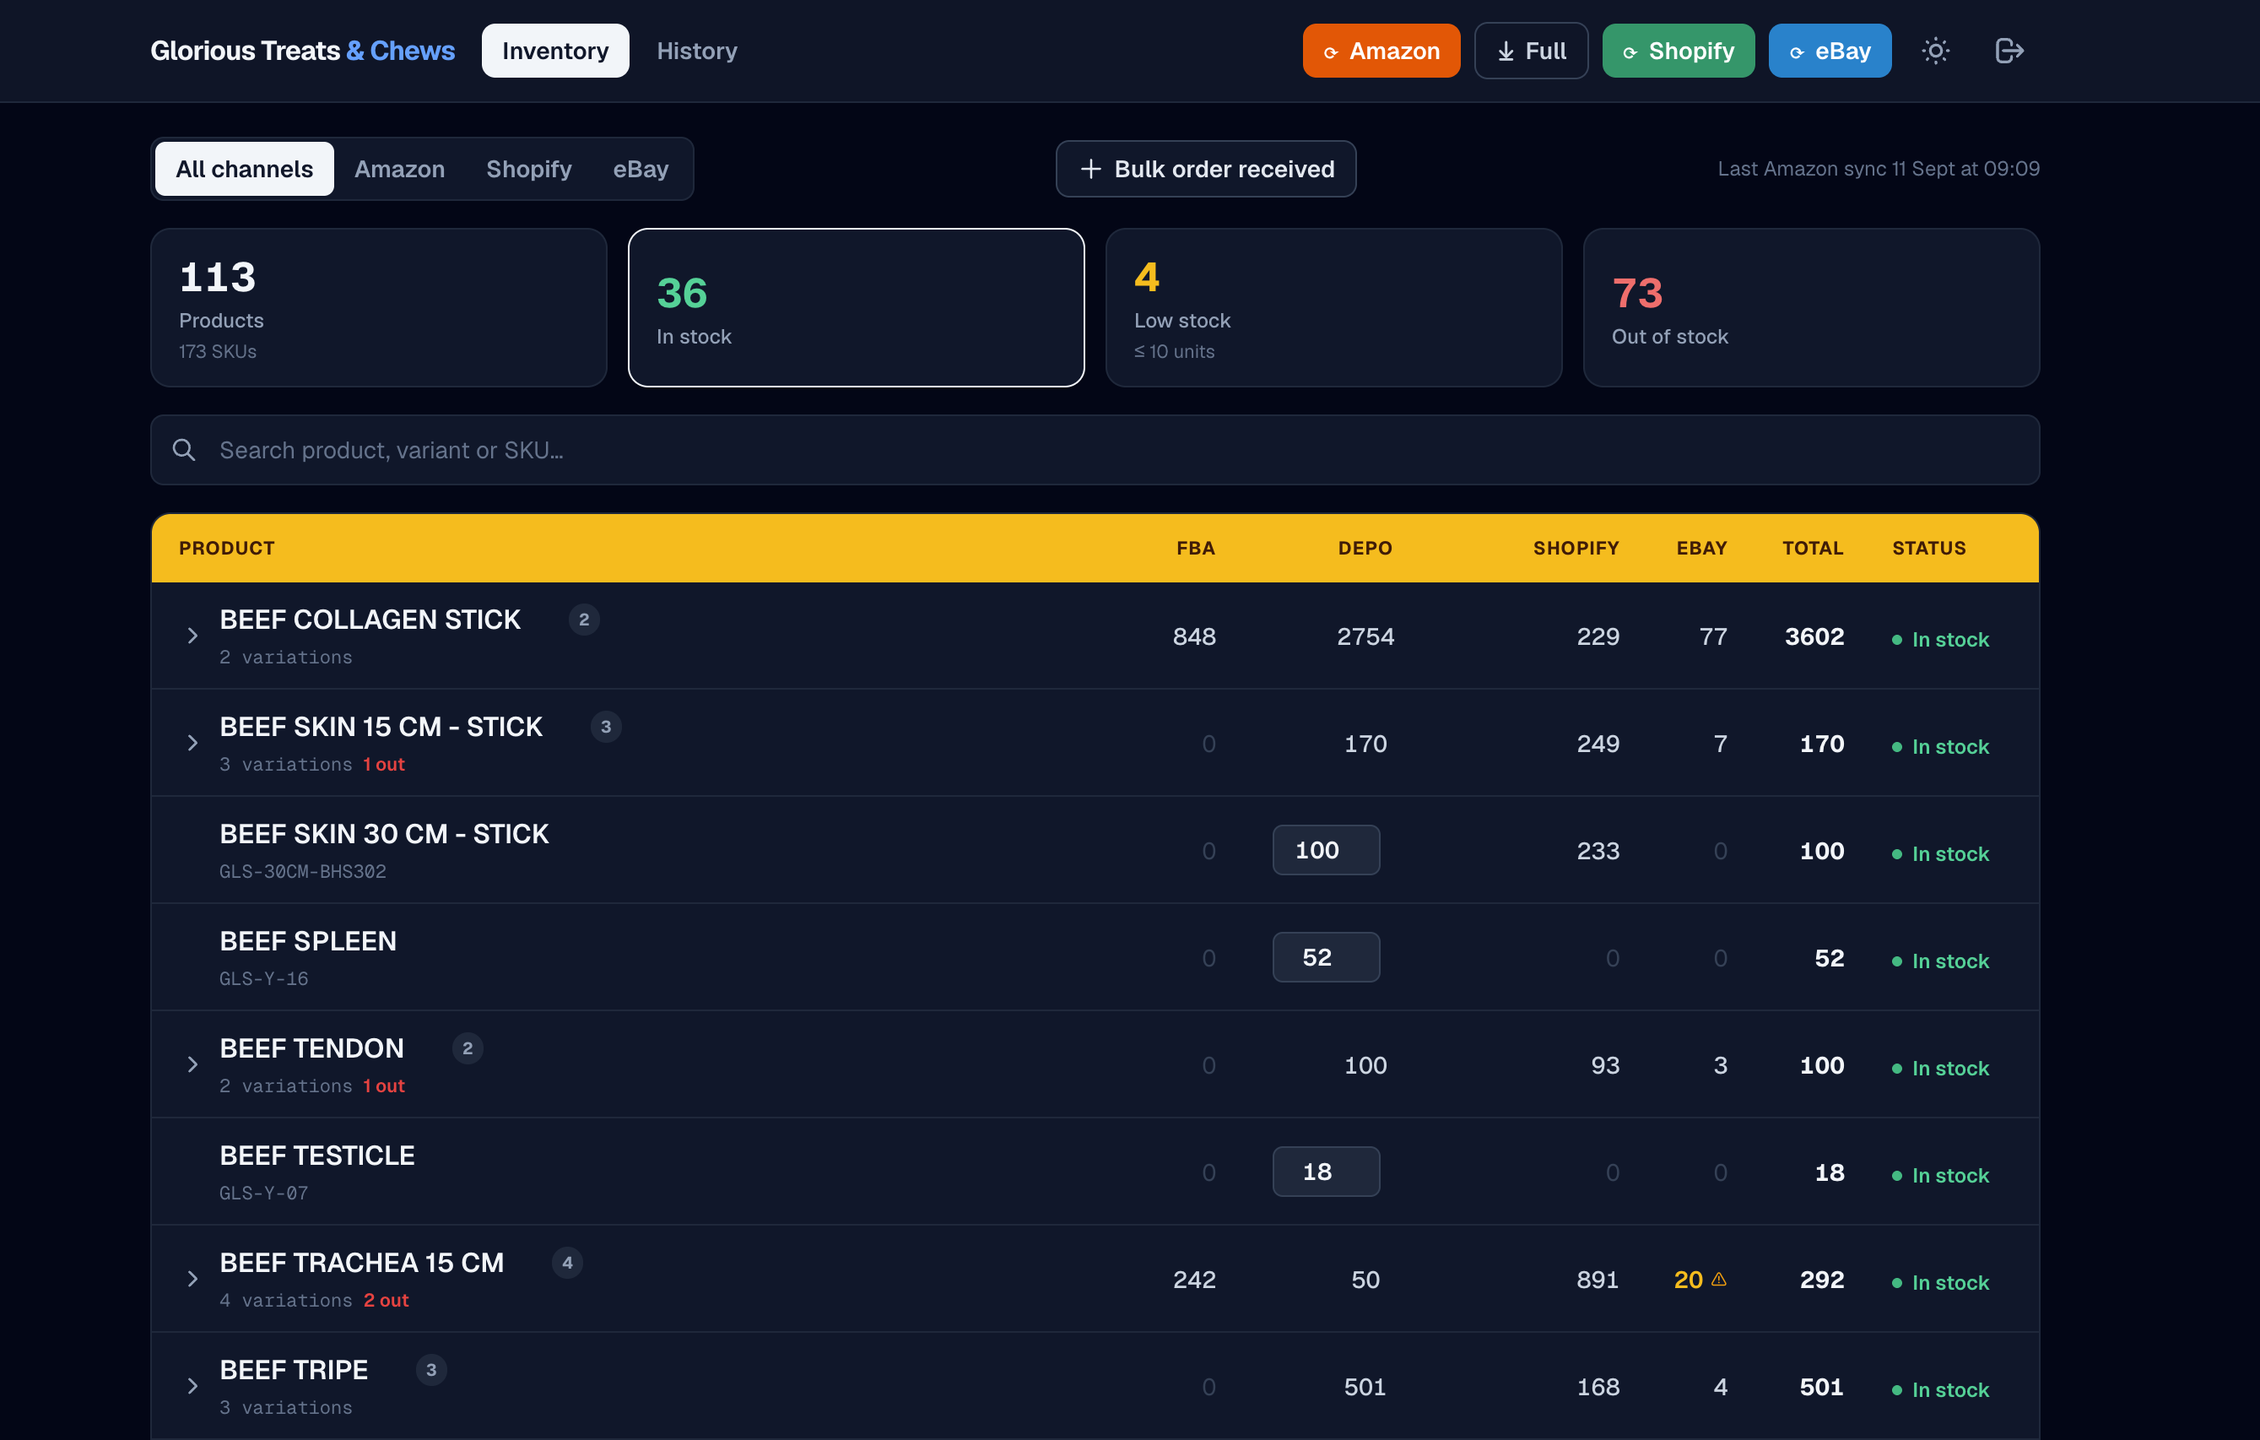
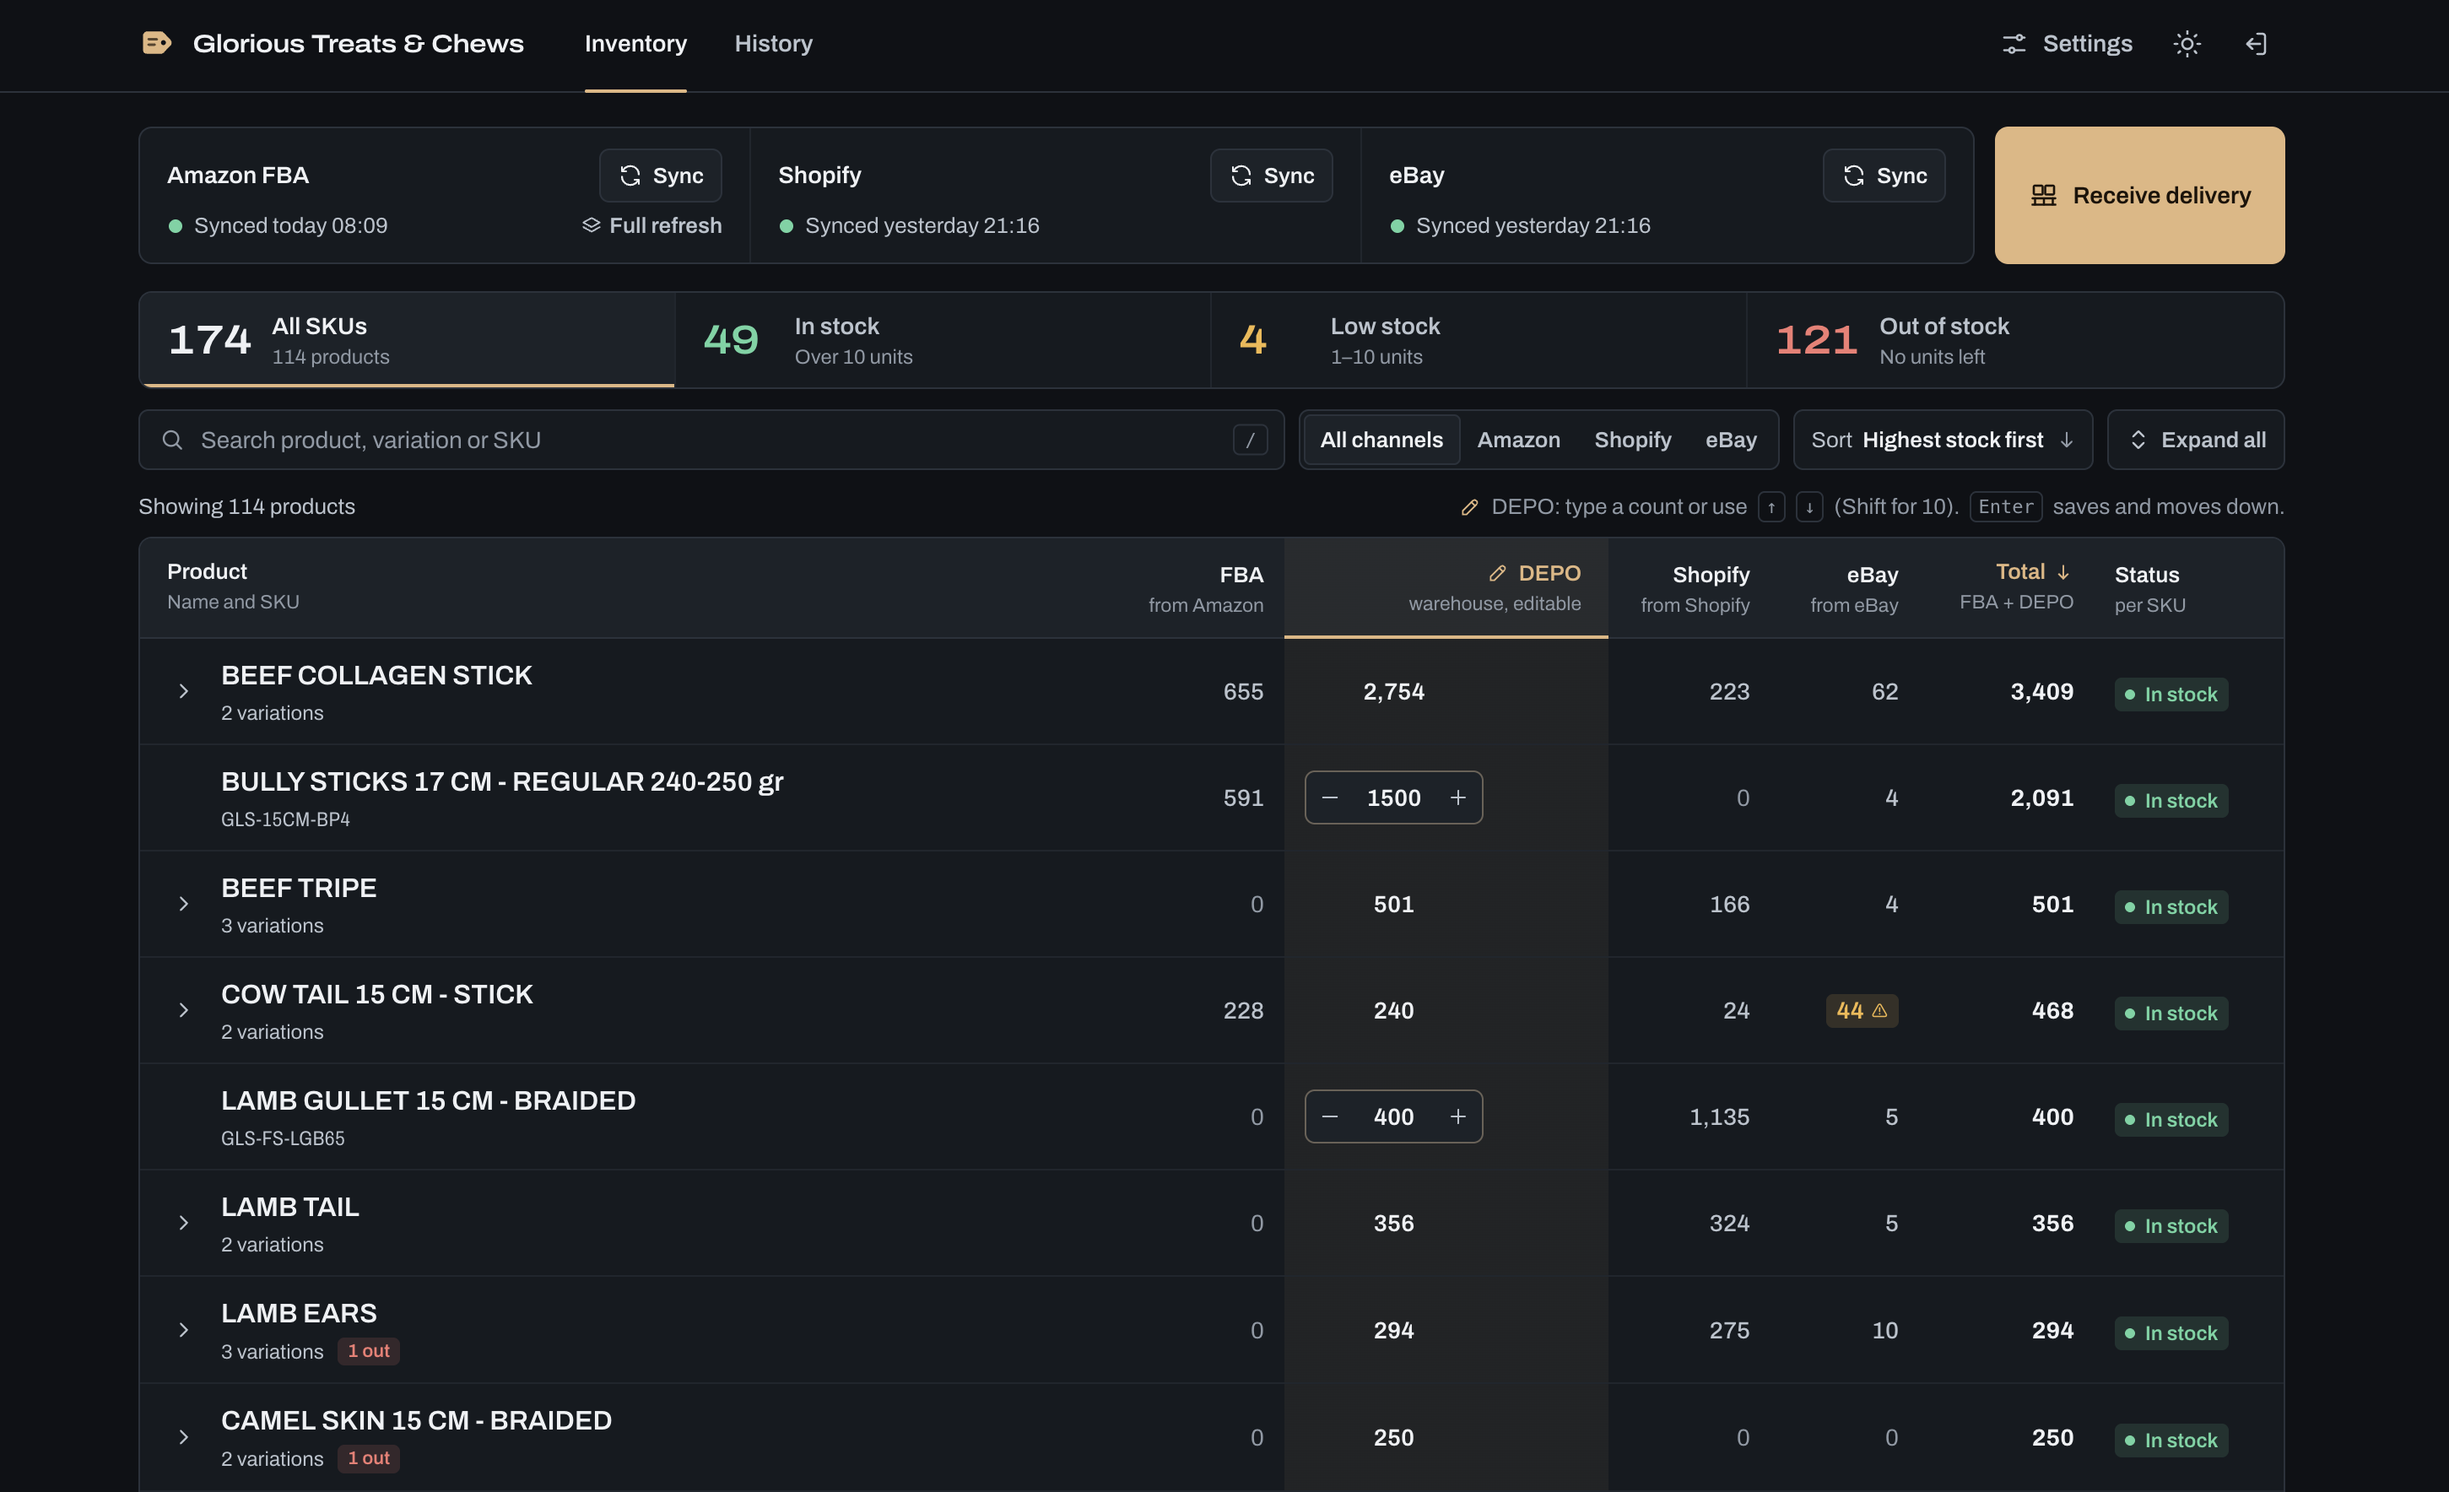
Update inventory screenshots: new dashboard and stock history page
- Replace the dashboard screenshot with the redesigned frontend
- Add the stock history page as a second image under it
- Update the product count to 114 products (174 SKUs)

diff --git a/index.html b/index.html
@@ -113,8 +113,9 @@
       </div>
 
       <article class="feature">
-        <div class="feature-media">
-          <img src="assets/glorious-dashboard.png" alt="The inventory dashboard: product counts, stock status and per-channel stock for Amazon FBA, the depot, Shopify and eBay" width="2678" height="1706" loading="lazy" decoding="async">
+        <div class="feature-media media-stack">
+          <img src="assets/glorious-dashboard.png" alt="The inventory dashboard: sync status for Amazon FBA, Shopify and eBay, stock counts, and per-channel stock with editable depot quantities" width="2902" height="1768" loading="lazy" decoding="async">
+          <img src="assets/glorious-dashboard2.png" alt="The stock history page: every stock change from channel syncs, deliveries and manual edits, grouped by day" width="2742" height="1362" loading="lazy" decoding="async">
         </div>
         <div class="feature-body">
           <p class="meta"><span class="badge badge-live">Live · in daily use</span> Freelance · 2025 – present</p>
@@ -122,7 +123,7 @@
           <p class="client">for Glorious Treats &amp; Chews, an online pet-food retailer</p>
           <p>The owner sold on Amazon, Shopify and eBay, held stock in a depot, and reconciled it all by hand in one master Excel workbook. I built a web app that gives them a single, live view of every product.</p>
           <ul class="highlights">
-            <li><b>113 products (173 SKUs)</b> from three marketplaces plus depot stock in one dashboard</li>
+            <li><b>114 products (174 SKUs)</b> from three marketplaces plus depot stock in one dashboard</li>
             <li>Stock changes sync between channels within <b>~5 seconds</b></li>
             <li>The owner's Excel workbook stays up to date automatically, so their workflow didn't change</li>
             <li>Secure sign-in, stock history and a bulk "receive delivery" flow</li>

diff --git a/styles.css b/styles.css
@@ -163,6 +163,7 @@ h2 { font-size: clamp(1.8rem, 3.5vw, 2.4rem); font-weight: 800; }
 .feature-alt .feature-media { order: 2; }
 .feature-media img, .feature-media svg { width: 100%; height: auto; border-radius: 14px; border: 1px solid var(--border); }
 .media-track svg { border: 0; }
+.media-stack { display: grid; gap: 14px; align-self: start; }
 .meta { display: flex; flex-wrap: wrap; align-items: center; gap: 10px; font-size: 14px; color: var(--muted); margin-bottom: 10px; }
 .badge { font-size: 12px; font-weight: 700; padding: 4px 10px; border-radius: 999px; }
 .badge-live { background: rgba(15, 163, 127, .15); color: var(--accent-2); }
